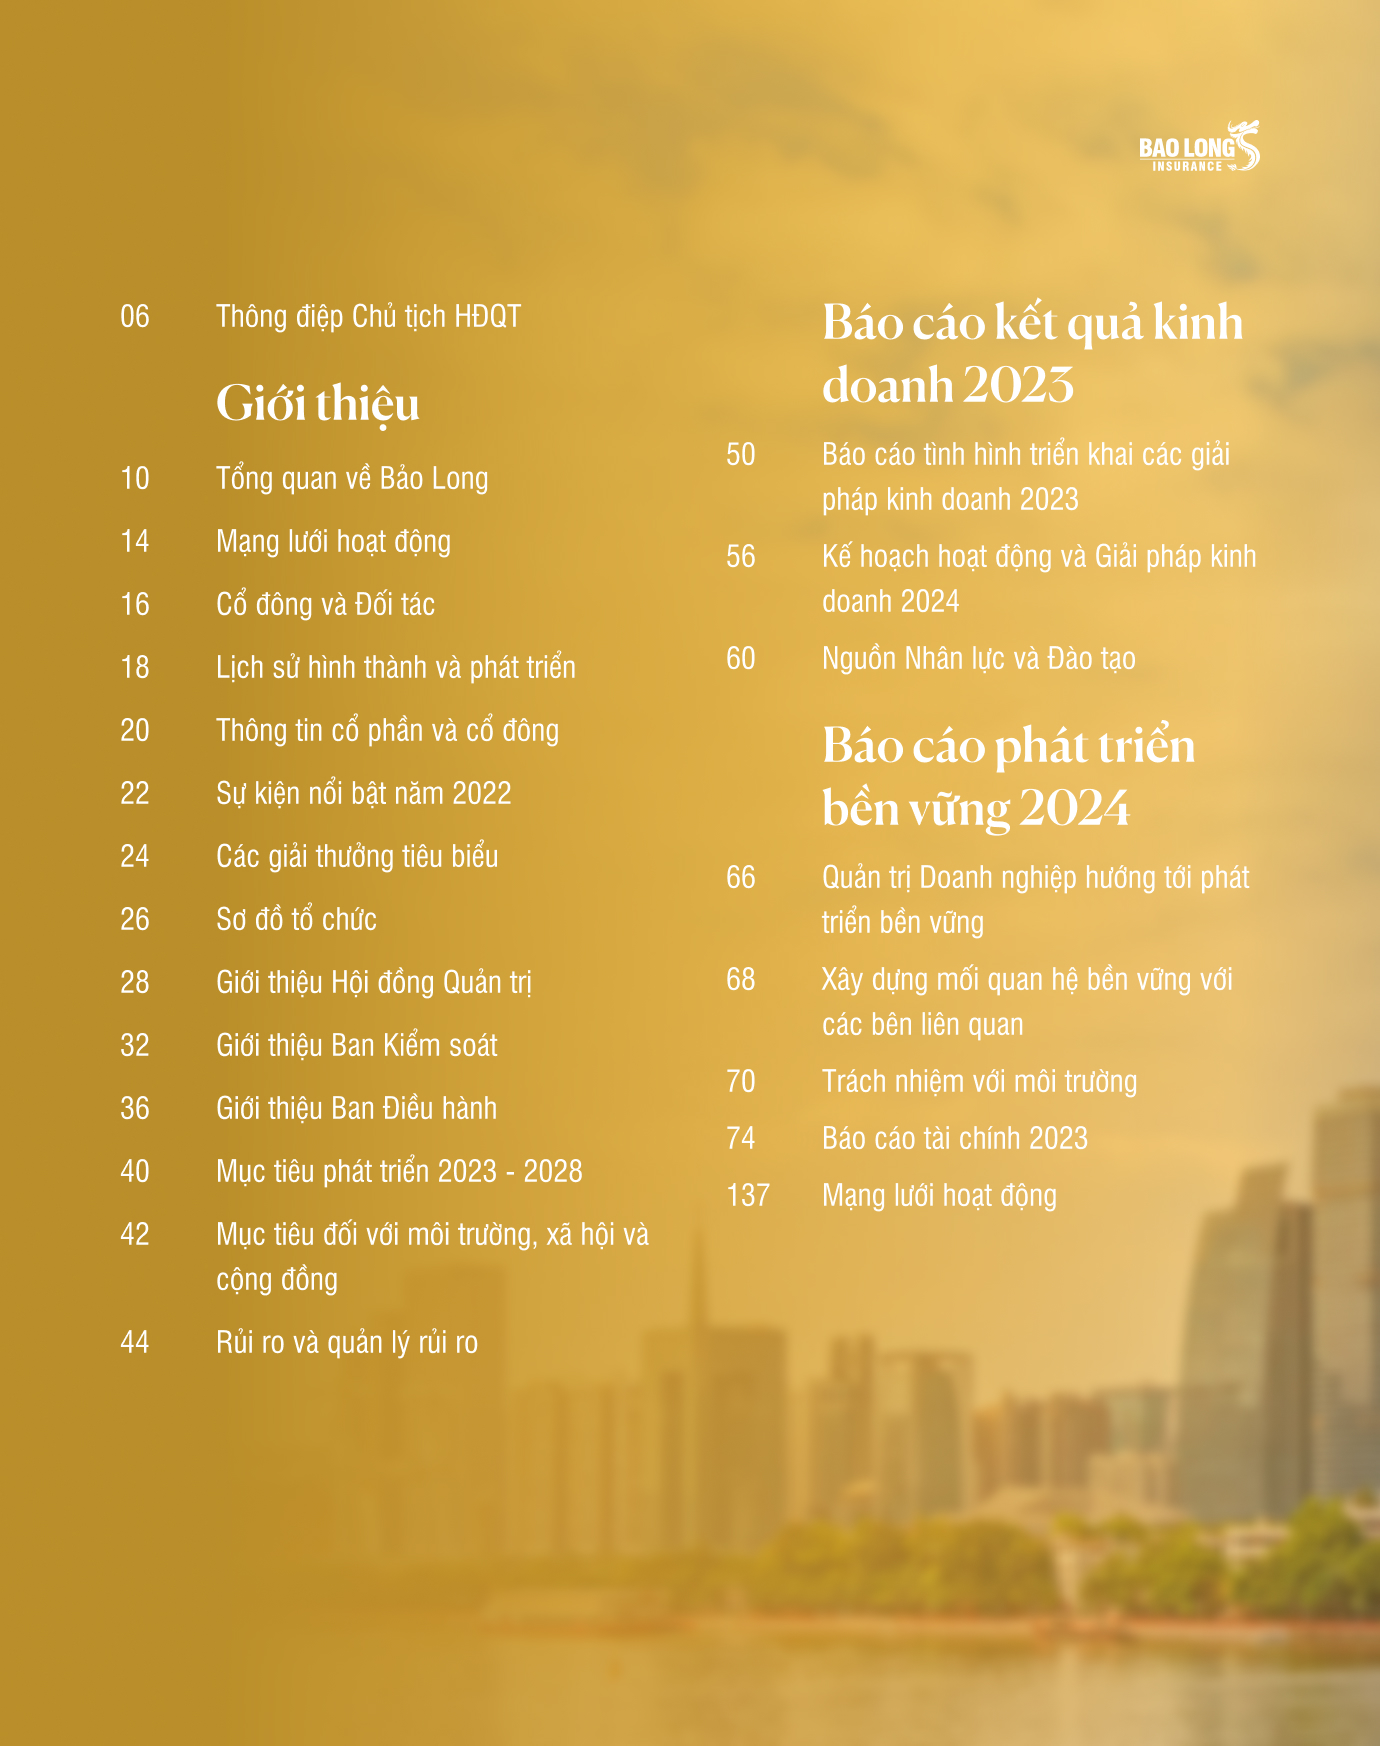
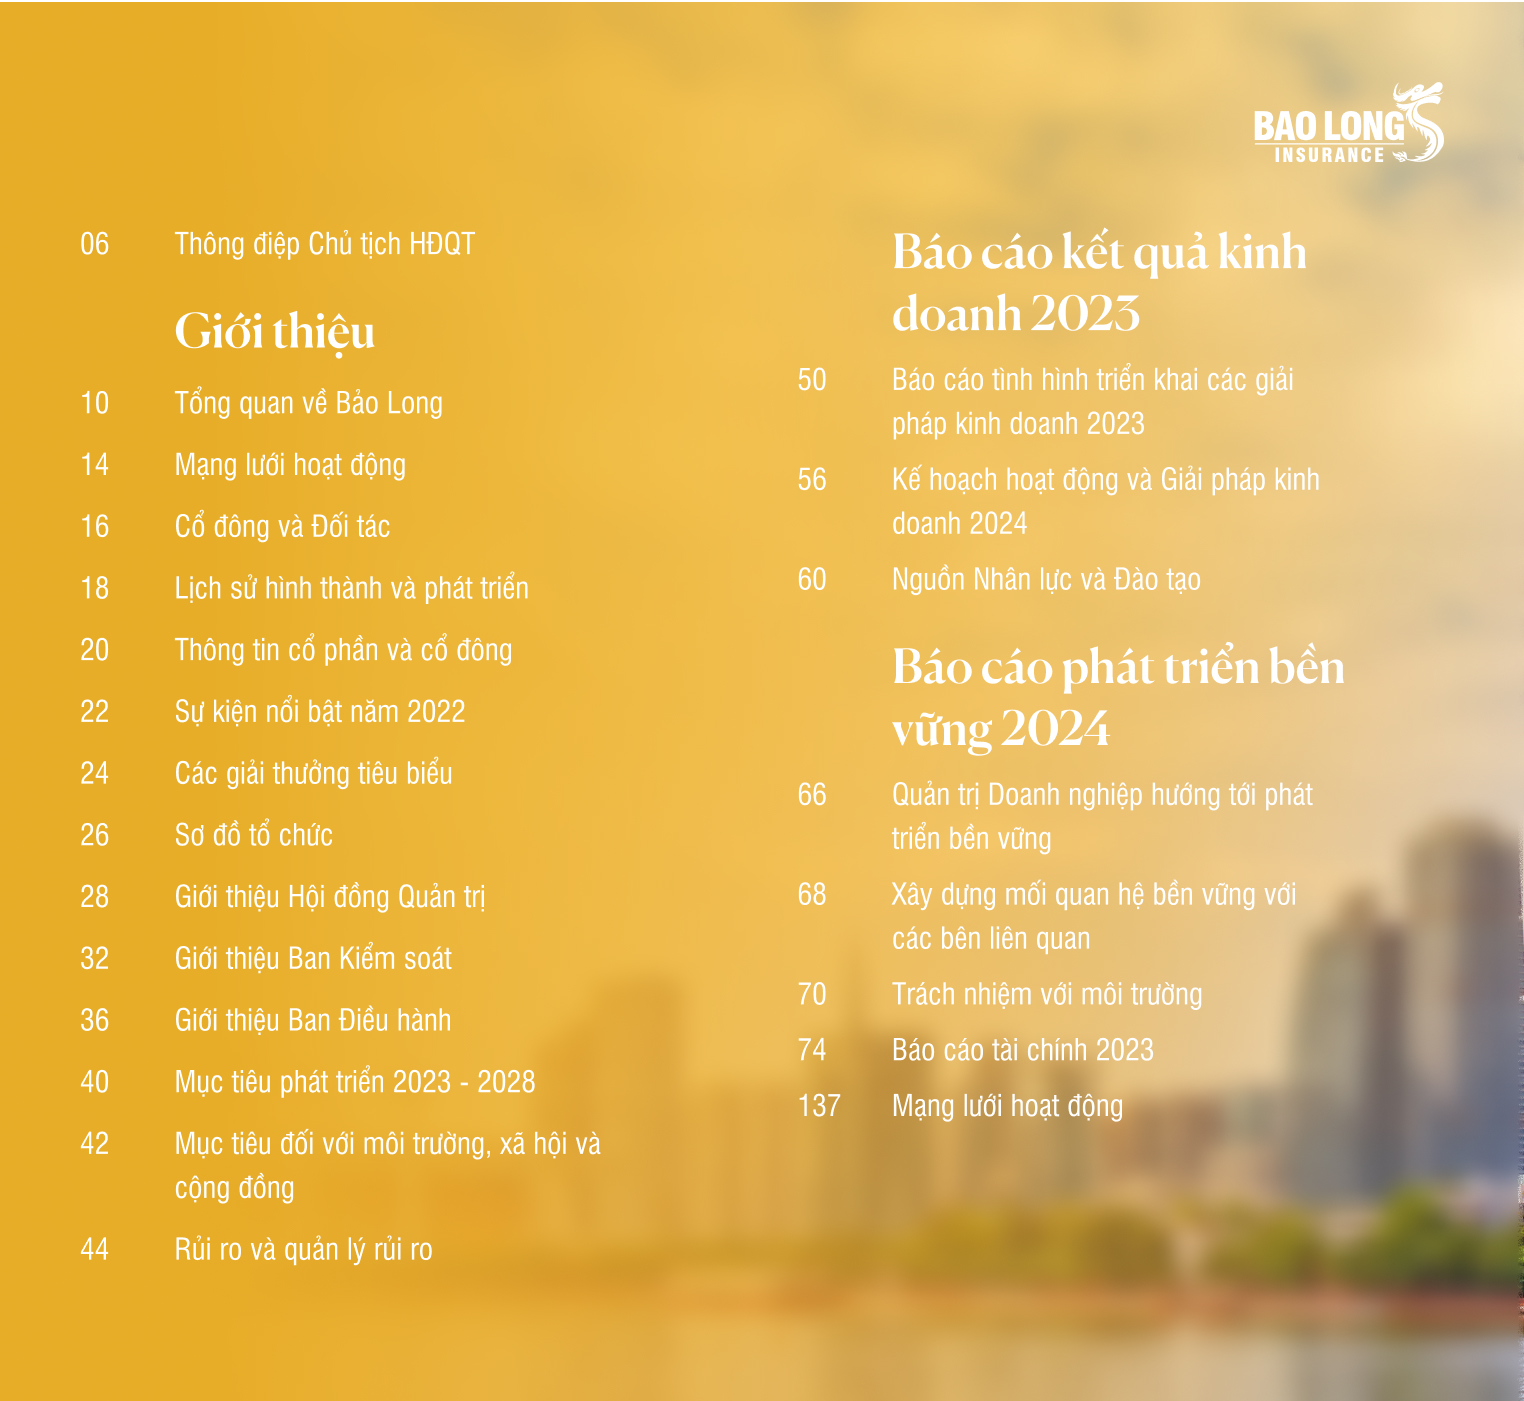
fixed 15 inches

diff --git a/index.html b/index.html
@@ -69,16 +69,20 @@
 
 			}
 			else if (screen.width >= 1441 && screen.width <= 1550) {
+				console.log(2);
 				// acer 15inch
 				bookSize.width = screen.height * 0.81 + screen.height * 0.29 + screen.height * 0.45;
 				bookSize.height = screen.height * 0.81;
 				bookSize.left = -650;
 
 			} else if (screen.width >= 1551 && screen.width <= 1700) {
-
+				//
+				console.log("screen.height", screen.height);
+				console.log("resize", -(screen.height*0.34));
 				bookSize.width = screen.width * 0.85;
-				bookSize.height = screen.height;
-				bookSize.left = -650;
+				bookSize.height = screen.height*0.88;
+				bookSize.top = -(screen.height*0.44);
+				bookSize.left = -(screen.height*0.68);
 
 			} else if (screen.width >= 1700 && screen.width <= 1920) {
 				// Quỳnh
